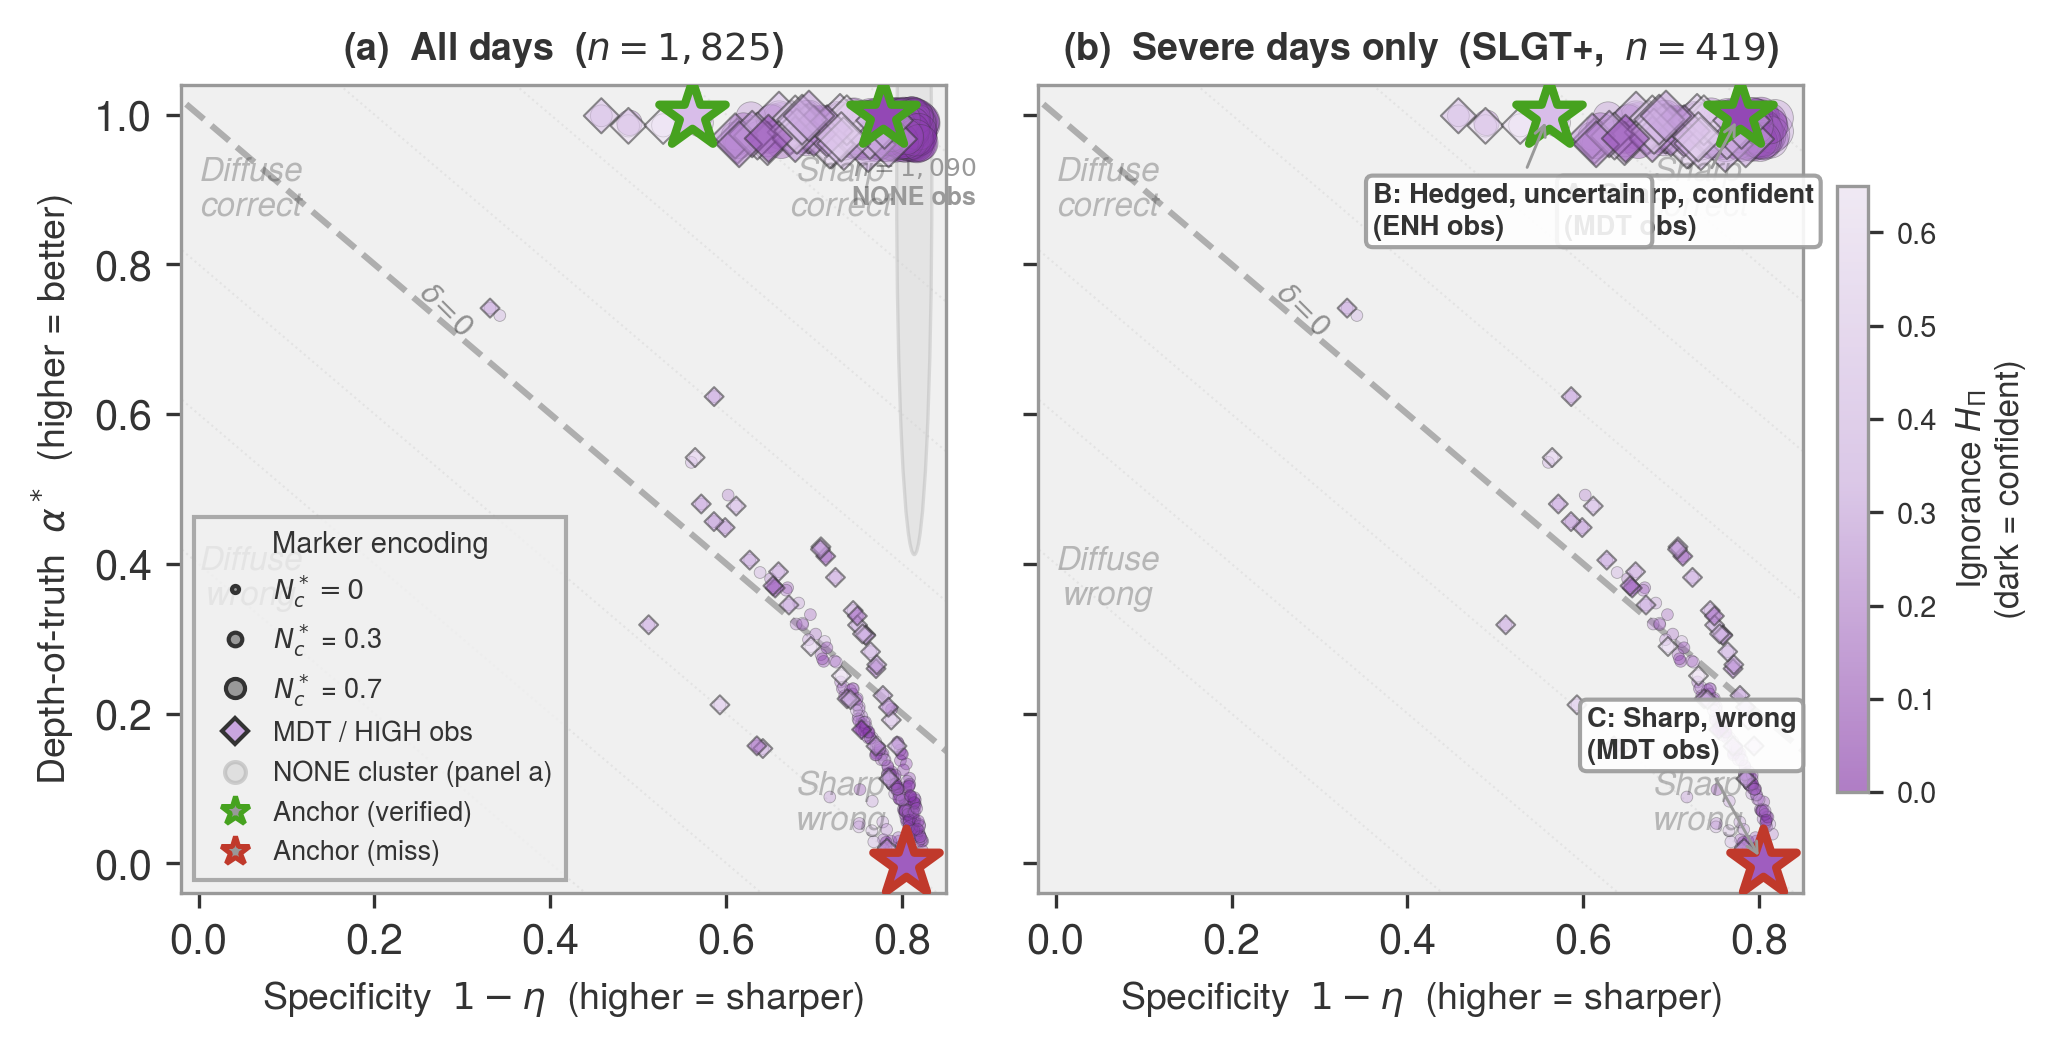
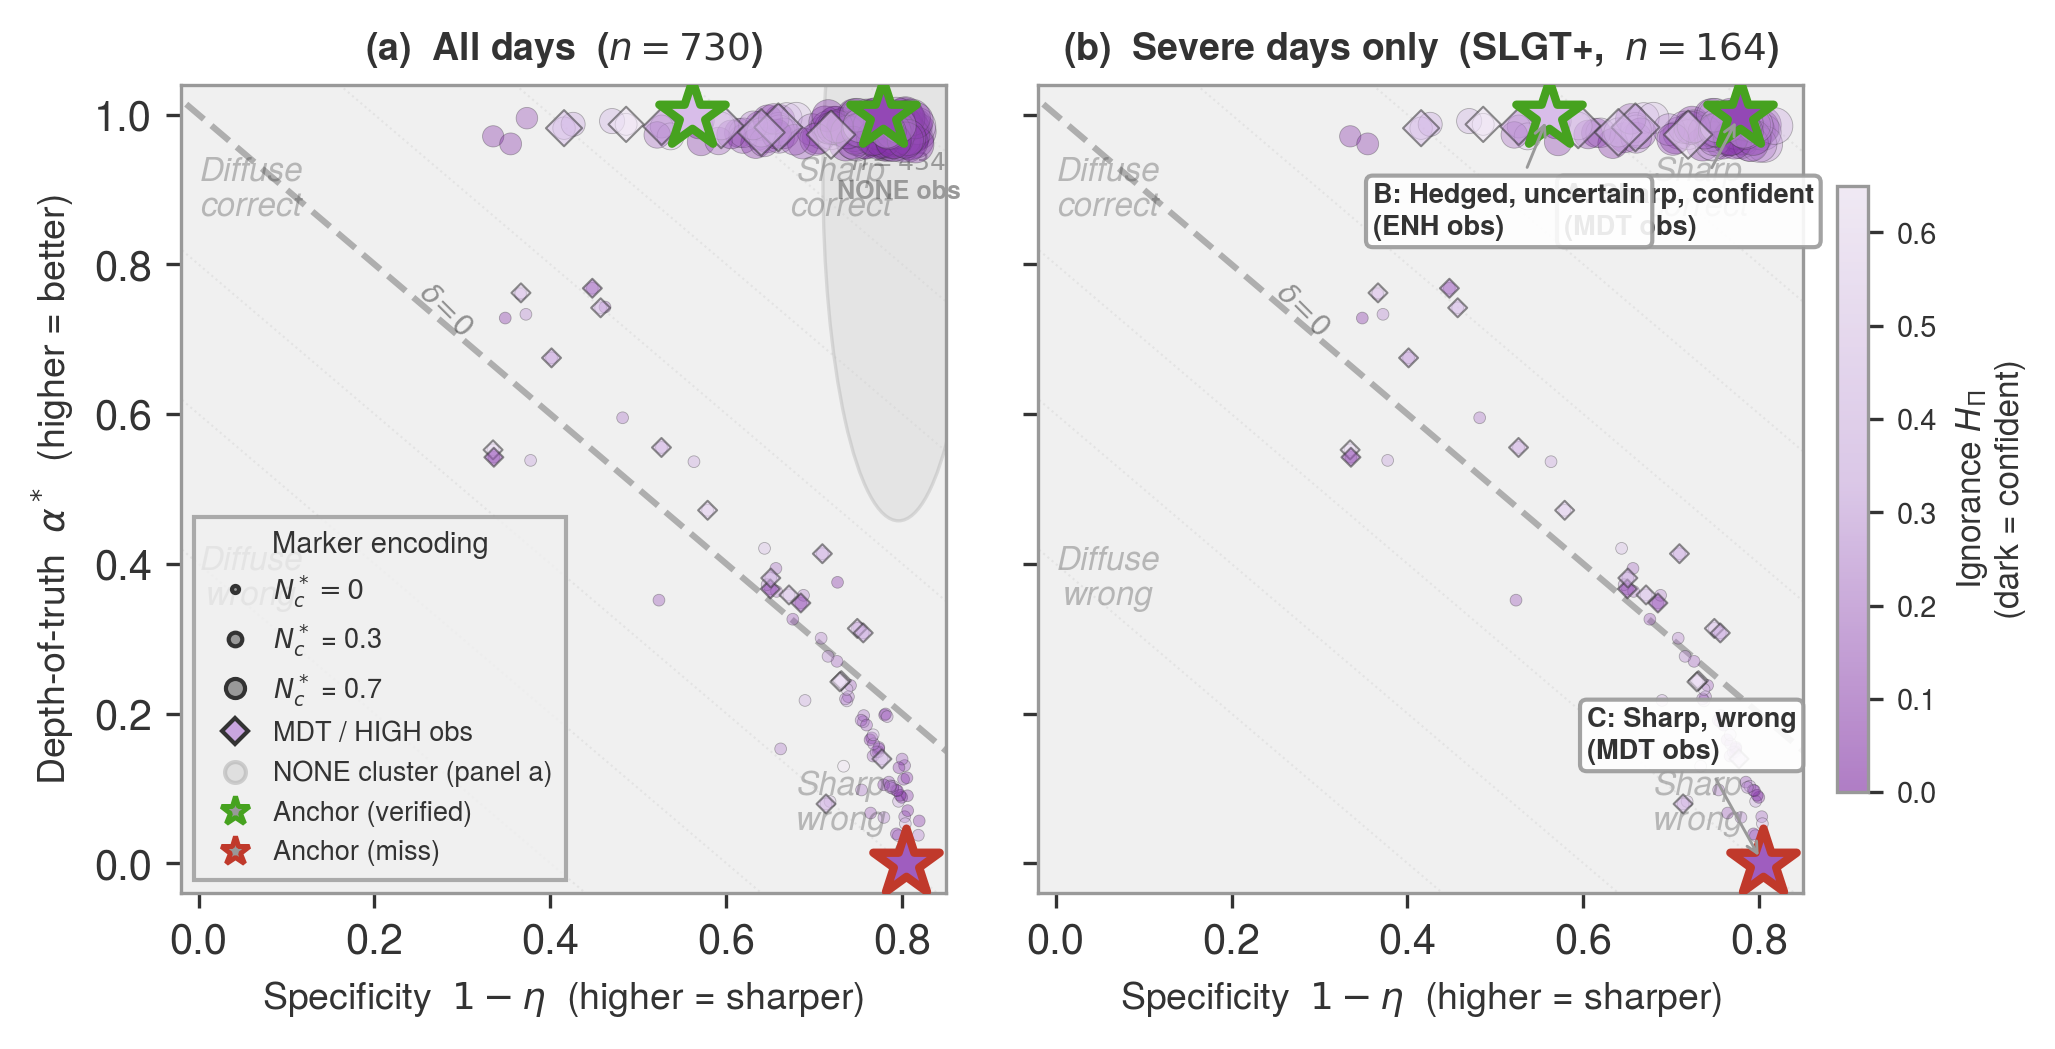
Thin performance diagram (2yr), reformat Table 2 and glosses
- Reduce reforecast from 5 years to 2 (730 days), widen spread/ignorance
  sigmas so points scatter more visibly on the diagram
- Update caption to match new sample size
- Replace rationaleenv green box for plain-language glosses with a
  tabularx using green-tinted symbol column for visual accent
- Reformat Table 2 (raw/norm): group rows by Raw/Normalized/Both with
  italic subheadings and increased row spacing

diff --git a/sections/05-native-verification.tex b/sections/05-native-verification.tex
@@ -50,25 +50,28 @@ Table~\ref{tab:raw_norm} specifies which form each quantity uses.
 
 \begin{table}[htbp]
 \centering
-\caption{Raw vs.\ normalized possibility assignments for verification
-    quantities.}
+\caption{Raw vs.\ normalized form used by each verification quantity.}
 \label{tab:raw_norm}
 \small
-\begin{tabularx}{\columnwidth}{%
-    >{\raggedright\arraybackslash}p{0.20\columnwidth}ccX}
+\renewcommand{\arraystretch}{1.15}
+\begin{tabular}{@{}llcl@{}}
 \toprule
-Quantity & Symbol & Uses & Reason \\
+Quantity & Symbol & Form & Reason \\
 \midrule
-Ignorance & $\ign$ & $\pi$ & Gap to normality \\
-Event possibility & $\poss(A_T)$ & $\pi$ & Upper plausibility bound \\
-Cumulative upper bound & $U_k$ & $\pi$ & For IRLS \\
-Depth-of-truth & $\alpha^*$ & $\pinorm$ & Shape quality \\
-Nonspecificity & $\eta$ & $\pinorm$ & Shape diffuseness \\
-Conditional necessity & $\Nc(A)$ & $\pinorm$ & Certainty given coverage \\
-Lower threshold bound & $L_t$ & Both & Coverage $\times$ certainty \\
-Cumulative lower bound & $L_k$ & Both & IRLS counterpart of $L_t$ \\
+\multicolumn{4}{@{}l}{\textit{Raw $(\pi)$}} \\[2pt]
+\quad Ignorance              & $\ign$      & $\pi$    & Gap to normality \\
+\quad Event possibility      & $\poss(A_T)$& $\pi$    & Upper bound \\
+\quad Cumulative upper bound & $U_k$       & $\pi$    & For IRLS \\[4pt]
+\multicolumn{4}{@{}l}{\textit{Normalized $(\pinorm)$}} \\[2pt]
+\quad Depth-of-truth         & $\alpha^*$  & $\pinorm$ & Shape quality \\
+\quad Nonspecificity          & $\eta$      & $\pinorm$ & Shape diffuseness \\
+\quad Conditional necessity   & $\Nc(A)$    & $\pinorm$ & Certainty given coverage \\[4pt]
+\multicolumn{4}{@{}l}{\textit{Both}} \\[2pt]
+\quad Lower threshold bound  & $L_t$       & Both     & Coverage $\times$ certainty \\
+\quad Cumulative lower bound & $L_k$       & Both     & IRLS counterpart \\
 \bottomrule
-\end{tabularx}
+\end{tabular}
+\renewcommand{\arraystretch}{1.0}
 \end{table}
 
 \textbf{Why this matters:} Getting the raw/normalized distinction wrong
@@ -146,21 +149,27 @@ where $\Nc^* > 0$ only when the observed category dominates all
 alternatives in the normalized distribution.  This is a direct
 application of Eq.~\eqref{eq:cond_nec} evaluated at the observation.
 
-\begin{rationaleenv}{Plain-language glosses}
-\begin{itemize}[leftmargin=1em, itemsep=2pt]
-\item $\alpha^*$: ``How much normalized possibility did the system
-    assign to what actually happened?'' Like POD for the winning bin,
-    but continuous.
-\item $\eta$: ``How spread out was the normalized distribution?'' Like
-    ensemble spread or sharpness.
-\item $\delta$: ``Did the system give more support to the truth than to
-    an average category?'' Like resolution in the Brier decomposition.
-\item $\ign$: ``How much did the system admit it didn't know?''
-    $\ign = 0$: fully confident.  $\ign = 1$: complete ignorance.
-\item $\Nc^*$: ``Among scenarios the system covered, was the truth
-    dominant enough to rule out alternatives?'' A confidence flag.
-\end{itemize}
-\end{rationaleenv}
+\medskip
+\noindent\textbf{\textsf{\color{rationalecolor}Plain-language glosses}}
+\smallskip
+
+\noindent
+\renewcommand{\arraystretch}{1.25}
+\begin{tabularx}{\columnwidth}{%
+    >{\columncolor{rationalecolor!10}}c X}
+$\alpha^*$ & How much normalized possibility did the system assign to
+    what actually happened?  Like POD for the winning bin, but
+    continuous. \\
+$\eta$ & How spread out was the normalized distribution?  Like ensemble
+    spread or sharpness. \\
+$\delta$ & Did the system give more support to the truth than to an
+    average category?  Like resolution in the Brier decomposition. \\
+$\ign$ & How much did the system admit it didn't know?
+    $\ign = 0$: fully confident; $\ign = 1$: complete ignorance. \\
+$\Nc^*$ & Among scenarios the system covered, was the truth dominant
+    enough to rule out alternatives?  A confidence flag. \\
+\end{tabularx}
+\renewcommand{\arraystretch}{1.0}
 
 Aggregates $\overline{\alpha^*}$, $\overline{\eta}$,
 $\overline{\delta}$, $\overline{\ign}$, $\overline{\Nc^*}$ are reported
@@ -212,22 +221,23 @@ separately for null (\spc{NONE}) and eventful (\spc{SLGT}$+$) subsets.
 \begin{figure*}[!t]
 \centering
 \includegraphics[width=\textwidth]{performance_diagram.png}
-\caption{Possibilistic performance diagram for a five-year synthetic
-    reforecast with SPC-like base rates (slightly smoothed to reduce
-    null-day dominance; \spc{NONE}~60\%, \spc{MRGL}~18\%, \spc{SLGT}~12\%,
-    \spc{ENH}~6\%, \spc{MDT}~3.2\%, \spc{HIGH}~0.8\%).
-    \textbf{(a)}~All days ($n = 1{,}825$): the dense dark cluster at
-    upper right is dominated by trivially correct \spc{NONE} forecasts
-    that inflate aggregate metrics.
-    \textbf{(b)}~Severe days only (\spc{SLGT}$+$, $n \approx 419$): with
-    null cases removed, the rare-event population (\spc{MDT}: ${\sim}56$,
-    \spc{HIGH}: ${\sim}18$, shown as diamonds) is exposed and the ignorance
-    gradient becomes visible.  Stars mark the three worked scenarios from
-    Section~\ref{sec:worked_examples}.  \textbf{Position:} specificity
-    $1 - \eta$ ($x$) vs.\ depth-of-truth $\alpha^*$ ($y$); diagonal
-    dashed line is $\delta = 0$.  \textbf{Colour:} ignorance $\ign$
-    (darker $=$ more confident).  \textbf{Size:} conditional necessity
-    $\Nc^*$ (larger $=$ truth more dominant).}
+\caption{Possibilistic performance diagram for a two-year synthetic
+    reforecast with SPC-like base rates (\spc{NONE}~60\%,
+    \spc{MRGL}~18\%, \spc{SLGT}~12\%, \spc{ENH}~6\%, \spc{MDT}~3.2\%,
+    \spc{HIGH}~0.8\%).
+    \textbf{(a)}~All days ($n = 730$): the shaded ellipse at upper right
+    summarizes trivially correct \spc{NONE} forecasts that inflate
+    aggregate metrics.
+    \textbf{(b)}~Severe days only (\spc{SLGT}$+$): with null cases
+    removed, the rare-event population (diamonds) is exposed and the
+    ignorance gradient becomes visible.  Stars mark the three worked
+    scenarios from Section~\ref{sec:worked_examples}; green edges denote
+    verified forecasts, red edges denote misses.
+    \textbf{Position:} specificity $1 - \eta$ ($x$) vs.\
+    depth-of-truth $\alpha^*$ ($y$); diagonal dashed line is
+    $\delta = 0$.  \textbf{Colour:} ignorance $\ign$ (darker $=$ more
+    confident).  \textbf{Size:} conditional necessity $\Nc^*$ (larger
+    $=$ truth more dominant).}
 \label{fig:performance_diagram}
 \end{figure*}
 

diff --git a/scripts/fig_performance_diagram.py b/scripts/fig_performance_diagram.py
@@ -78,8 +78,8 @@ def scorecard_from_data(pi_array, obs_categories, K=SPC_N):
                 H_Pi=H_Pi, Nc_star=Nc_star, obs_idx=obs_idx)
 
 
-def generate_reforecast(n_years=5, K=SPC_N, seed=42):
-    """Generate a five-year synthetic possibilistic reforecast.
+def generate_reforecast(n_years=2, K=SPC_N, seed=42):
+    """Generate a two-year synthetic possibilistic reforecast.
 
     The synthetic model has physically motivated behaviour:
       - SPC-like base rates (slightly smoothed to reduce null-day dominance):
@@ -87,6 +87,7 @@ def generate_reforecast(n_years=5, K=SPC_N, seed=42):
       - Category-dependent accuracy: 82 % correct peak for NONE, 18 % for HIGH
       - Category-dependent ignorance: H_Pi ~ 0.06 for NONE, ~ 0.52 for HIGH
       - Near-miss errors: wrong forecasts tend to be +/- 1 category
+      - Extra spread noise for visual separation on the diagram
 
     Returns
     -------
@@ -102,11 +103,12 @@ def generate_reforecast(n_years=5, K=SPC_N, seed=42):
     obs_categories = [SPC_CATEGORIES[i] for i in obs_idx]
 
     # --- Category-dependent model parameters ---
+    # Wider spread & ignorance sigmas to scatter points more on the diagram
     correct_prob = np.array([0.82, 0.78, 0.65, 0.48, 0.32, 0.18])
     h_mu = np.array([0.06, 0.08, 0.15, 0.25, 0.38, 0.52])
-    h_sig = np.array([0.04, 0.05, 0.08, 0.10, 0.12, 0.12])
-    s_mu = np.array([3.0, 2.8, 2.2, 1.6, 1.2, 0.8])
-    s_sig = np.array([0.6, 0.6, 0.5, 0.5, 0.4, 0.3])
+    h_sig = np.array([0.06, 0.07, 0.12, 0.14, 0.16, 0.15])
+    s_mu = np.array([2.6, 2.4, 1.8, 1.3, 1.0, 0.7])
+    s_sig = np.array([0.9, 0.9, 0.8, 0.7, 0.6, 0.5])
 
     pi_array = np.empty((n_days, K))
 
@@ -122,7 +124,7 @@ def generate_reforecast(n_years=5, K=SPC_N, seed=42):
         spread = max(0.3, rng.normal(s_mu[oi], s_sig[oi]))
         dists = np.abs(np.arange(K) - peak).astype(float)
         pi = np.exp(-spread * dists)
-        pi += rng.uniform(0, 0.02, K)
+        pi += rng.uniform(0, 0.03, K)
 
         h = np.clip(rng.normal(h_mu[oi], h_sig[oi]), 0.02, 0.85)
         pi = pi / pi.max() * (1.0 - h)
